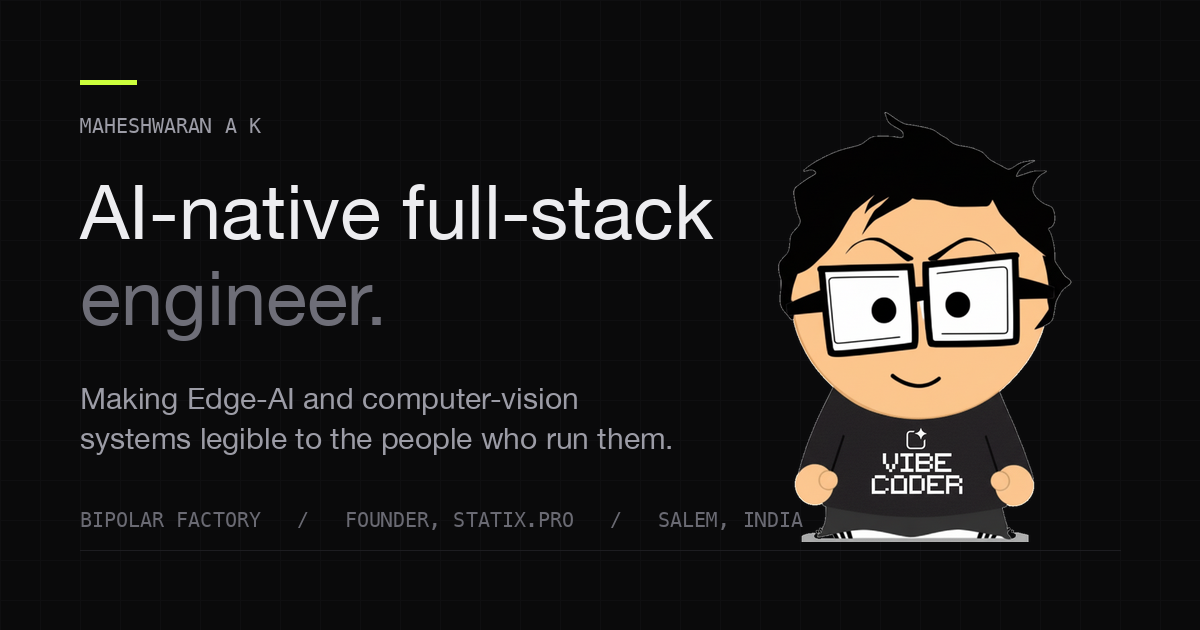
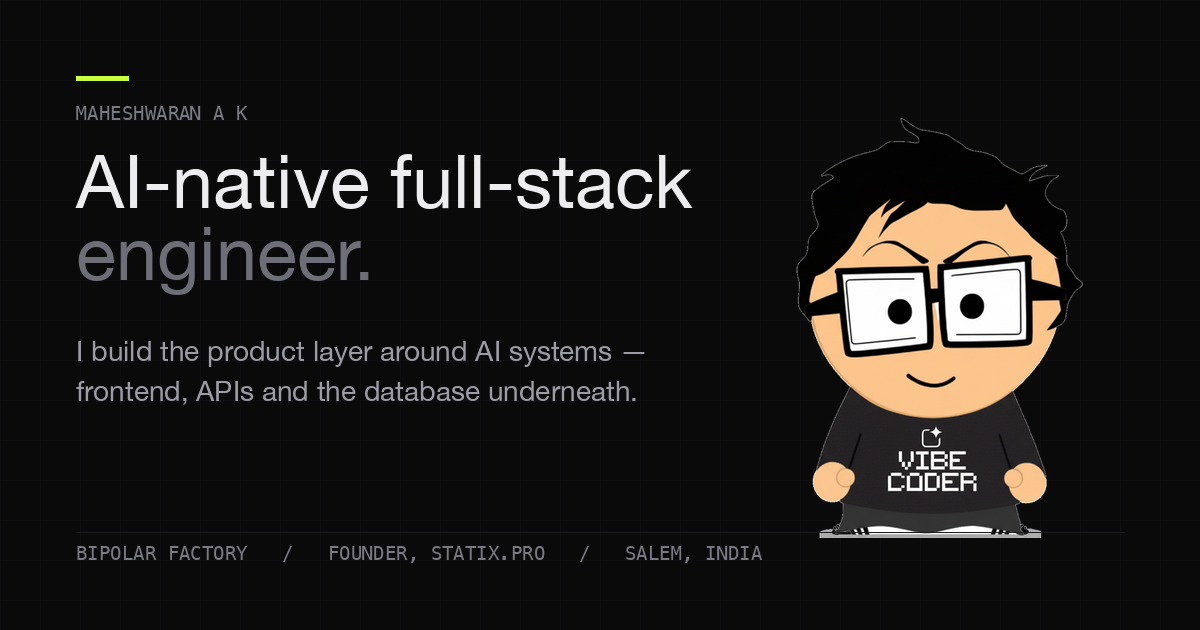
Correct the positioning
I build the product layer around AI systems, not the models. Reworded
the hero, a work bullet, the meta tags and the OG card to match.

diff --git a/index.html b/index.html
@@ -9,7 +9,7 @@
     <title>Maheshwaran A K — AI-Native Full-Stack Engineer</title>
     <meta
       name="description"
-      content="Maheshwaran A K builds the interfaces that make Edge-AI and computer-vision systems legible — real-time retail analytics at Bipolar Factory, a multi-tenant ERP routing ₹43.4 Cr, and multi-agent LLM tooling."
+      content="Maheshwaran A K — full-stack engineer in Salem, India. React and TypeScript frontends, FastAPI and Node backends, Postgres and MySQL. Retail-analytics products at Bipolar Factory, and a multi-tenant ERP that processed ₹43.4 Cr."
     />
     <meta name="author" content="Maheshwaran A K" />
     <link rel="canonical" href="https://maheshwaran325-portfolio.netlify.app/" />
@@ -22,7 +22,7 @@
     <meta property="og:title" content="Maheshwaran A K — AI-Native Full-Stack Engineer" />
     <meta
       property="og:description"
-      content="Building the interfaces that make Edge-AI systems legible. Retail analytics at Bipolar Factory; founder of Statix.pro."
+      content="Full-stack engineer. React and TypeScript, FastAPI and Node, Postgres and MySQL. Retail analytics at Bipolar Factory; founder of Statix.pro."
     />
     <meta property="og:image" content="https://maheshwaran325-portfolio.netlify.app/og.png" />
     <meta property="og:image:width" content="1200" />
@@ -33,7 +33,7 @@
     <meta name="twitter:title" content="Maheshwaran A K — AI-Native Full-Stack Engineer" />
     <meta
       name="twitter:description"
-      content="Building the interfaces that make Edge-AI systems legible. Retail analytics at Bipolar Factory; founder of Statix.pro."
+      content="Full-stack engineer. React and TypeScript, FastAPI and Node, Postgres and MySQL. Retail analytics at Bipolar Factory; founder of Statix.pro."
     />
     <meta name="twitter:image" content="https://maheshwaran325-portfolio.netlify.app/og.png" />
 

diff --git a/src/data/portfolioData.ts b/src/data/portfolioData.ts
@@ -82,7 +82,7 @@ export const EXPERIENCE: ExperienceItem[] = [
     location: 'Remote',
     isCurrent: true,
     achievements: [
-      'Building the central command center for enterprise retail analytics — surfacing real-time Edge-AI inference as <strong>footfall heatmaps, demographics and ANPR</strong> that store operators can actually act on.',
+      'Building the front end and APIs for the enterprise retail-analytics command center, turning the output of the platform\u2019s AI systems into <strong>footfall heatmaps, demographics and ANPR views</strong> that store operators can act on.',
       'Built an end-to-end <strong>workflow and scheduling system</strong> on FastAPI + PostgreSQL covering recurring, one-off and milestone schedules, TAT cascades, KPI aggregation and manager approval flows.',
       'Implemented <strong>multi-tenant object storage</strong> and evidence upload on S3/MinIO with file validation, size limits, workspace-level isolation and secure reference checks.',
       'Shipped React/TypeScript features across video-management and retail-analytics products: ticketing, KPI cards, camera grids, activity search, floor plans and NVR/device integrations.',

diff --git a/src/components/Hero.tsx b/src/components/Hero.tsx
@@ -20,10 +20,11 @@ export const Hero: React.FC = () => (
         </h1>
 
         <p className="hero-lede">
-          I build the interfaces that make <strong>Edge-AI and computer-vision systems</strong>{' '}
-          legible to the people who run on them — real-time heatmaps, demographics and ANPR at{' '}
-          <strong>Bipolar Factory</strong>. Before that I founded <strong>Statix.pro</strong> and
-          took its products 0 → 1.
+          Full-stack in the ordinary sense: <strong>React and TypeScript</strong> on the front,{' '}
+          <strong>FastAPI and Node</strong> behind, <strong>Postgres and MySQL</strong> underneath.
+          At <strong>Bipolar Factory</strong> I build the retail-analytics command center — the
+          product layer around the AI systems, not the models themselves. Before that I founded{' '}
+          <strong>Statix.pro</strong> and took its products 0 → 1.
         </p>
 
         <div className="hero-meta">
